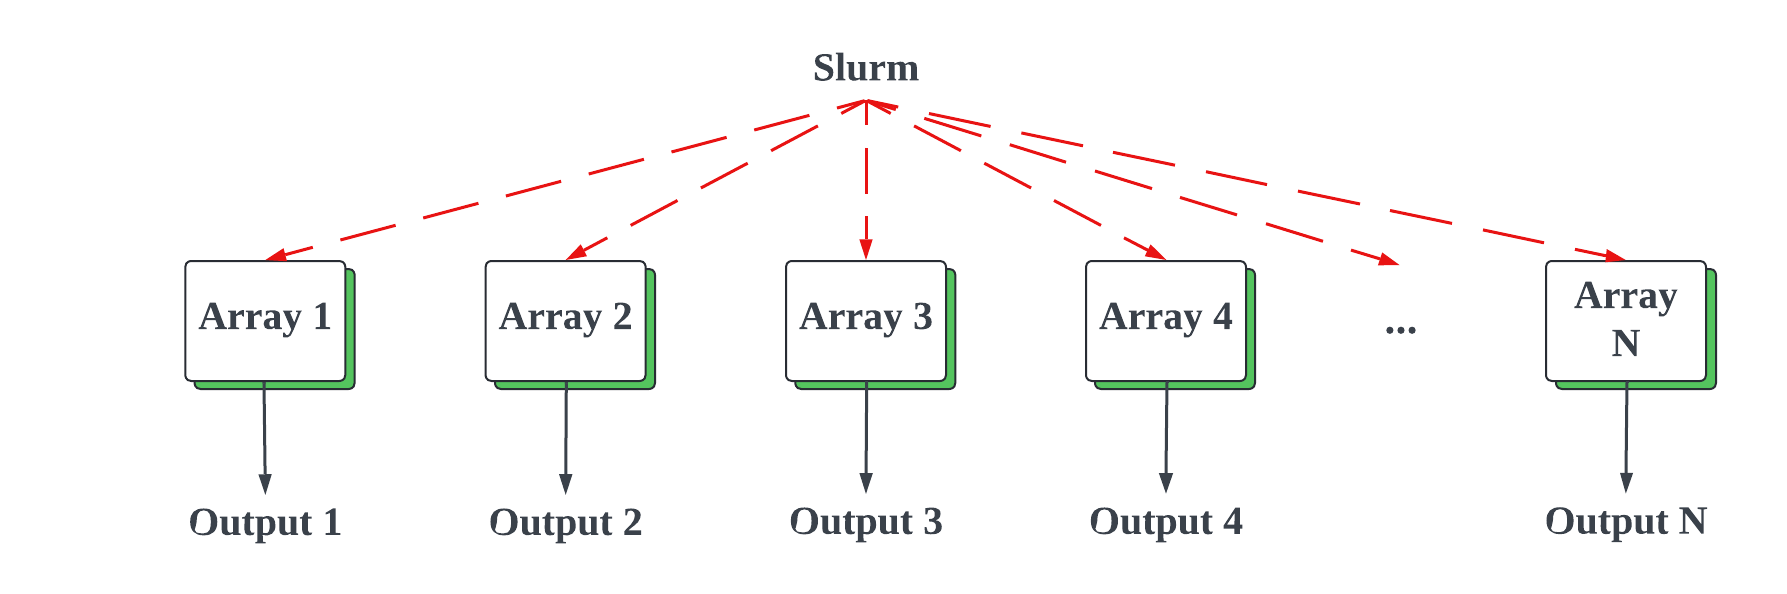
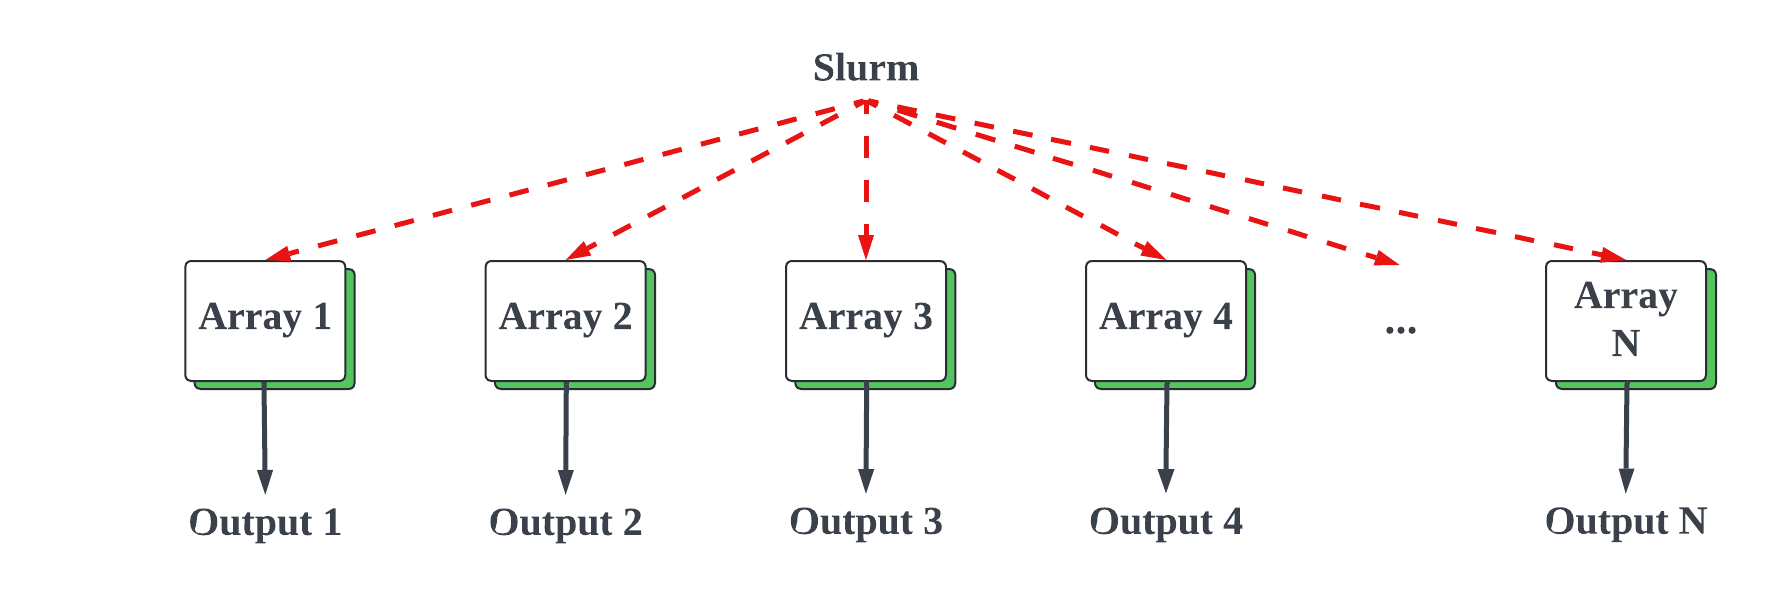
Even thicker lines

diff --git a/README.md b/README.md
@@ -15,6 +15,8 @@ ACCRE provides resources for solving such problems, and it involves having a
 high number of CPUs and nodes with high speed communication buses allocated
 all at once. A problem of this type quickly burns through fair share and can
 leave ones smaller shared group account depleted with just a couple requests.
+The proper configuration and design of such problems is complex and requires
+dedicated study. 
 
 <img src="./imgs/array-job.png" width="640"/>
 
